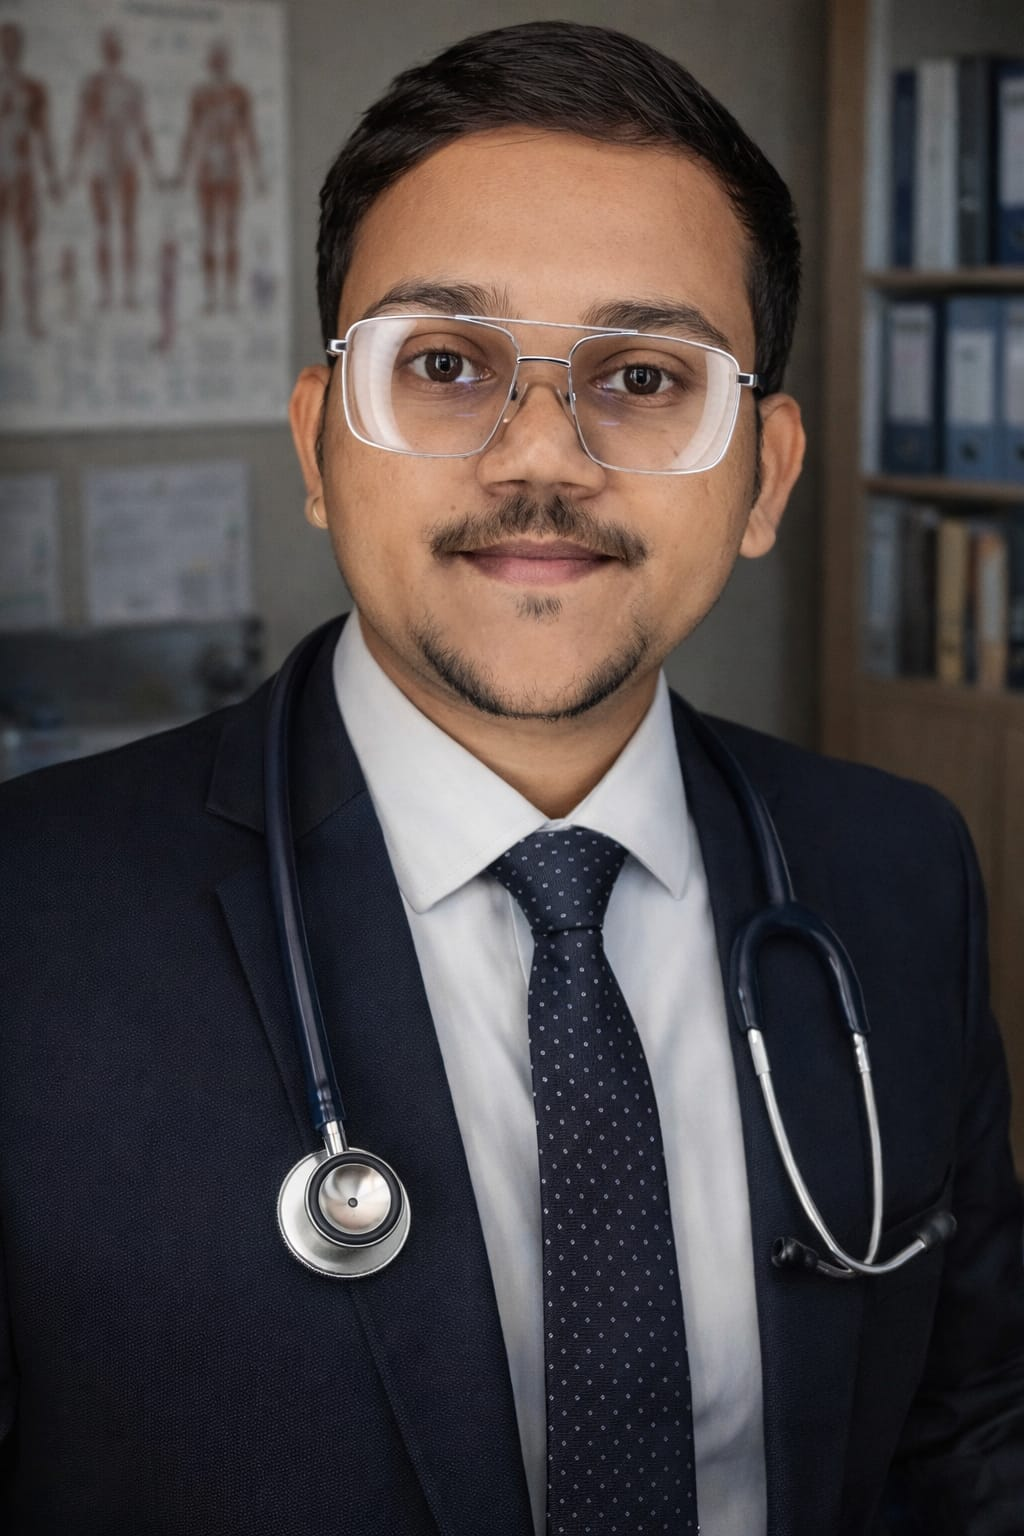
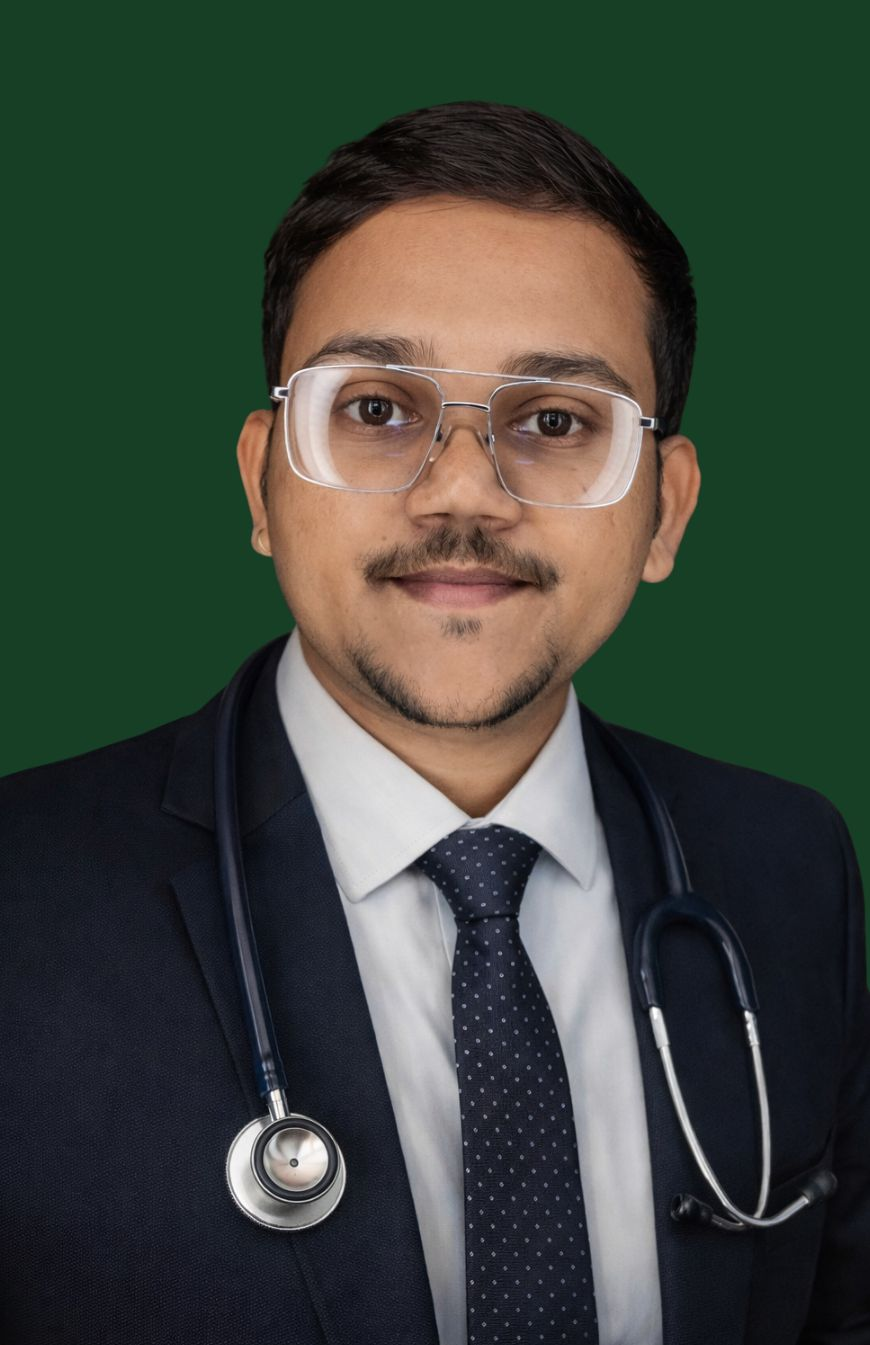
new whatsapp mesh changes

diff --git a/src/components/FloatingWhatsApp.jsx b/src/components/FloatingWhatsApp.jsx
@@ -1,0 +1,27 @@
+import './FloatingWhatsApp.css';
+
+const phoneNumber = '919307631817';
+const message = 'Hi, I want more information about the workshop.';
+const whatsappUrl = `https://wa.me/${phoneNumber}?text=${encodeURIComponent(message)}`;
+
+const FloatingWhatsApp = () => {
+  return (
+    <a
+      className="floating-whatsapp"
+      href={whatsappUrl}
+      target="_blank"
+      rel="noopener noreferrer"
+      aria-label="Chat on WhatsApp for more information"
+    >
+      <svg viewBox="0 0 32 32" aria-hidden="true" focusable="false">
+        <path
+          fill="currentColor"
+          d="M16.01 3.2c-7.04 0-12.77 5.72-12.77 12.76 0 2.25.6 4.45 1.73 6.38L3.14 29l6.82-1.79a12.7 12.7 0 0 0 6.05 1.54h.01c7.04 0 12.77-5.72 12.77-12.76S23.06 3.2 16.01 3.2Zm0 23.39h-.01a10.6 10.6 0 0 1-5.39-1.48l-.39-.23-4.05 1.06 1.08-3.95-.26-.41a10.56 10.56 0 0 1-1.62-5.62c0-5.86 4.77-10.62 10.64-10.62 2.84 0 5.51 1.11 7.52 3.12a10.56 10.56 0 0 1 3.11 7.52c0 5.86-4.77 10.61-10.63 10.61Zm5.83-7.95c-.32-.16-1.89-.93-2.18-1.04-.29-.11-.5-.16-.71.16-.21.32-.82 1.04-1.01 1.25-.19.21-.37.24-.69.08-.32-.16-1.35-.5-2.58-1.59-.95-.85-1.6-1.9-1.79-2.22-.19-.32-.02-.49.14-.65.15-.15.32-.37.48-.56.16-.19.21-.32.32-.53.11-.21.05-.4-.03-.56-.08-.16-.71-1.7-.98-2.33-.26-.62-.52-.54-.71-.55h-.61c-.21 0-.56.08-.85.4-.29.32-1.11 1.09-1.11 2.65s1.14 3.08 1.3 3.29c.16.21 2.24 3.42 5.43 4.79.76.33 1.35.52 1.81.67.76.24 1.46.21 2.01.13.61-.09 1.89-.77 2.16-1.51.27-.74.27-1.38.19-1.51-.08-.13-.29-.21-.61-.37Z"
+        />
+      </svg>
+      <span>More Info</span>
+    </a>
+  );
+};
+
+export default FloatingWhatsApp;

diff --git a/src/components/FloatingWhatsApp.css b/src/components/FloatingWhatsApp.css
@@ -1,0 +1,56 @@
+.floating-whatsapp {
+  align-items: center;
+  background: #25d366;
+  border-radius: 999px;
+  bottom: 88px;
+  box-shadow: 0 10px 24px rgba(37, 211, 102, 0.38);
+  color: #fff;
+  display: inline-flex;
+  gap: 0.45rem;
+  font-size: 0.95rem;
+  font-weight: 800;
+  justify-content: center;
+  min-height: 54px;
+  padding: 0.7rem 1rem 0.7rem 0.85rem;
+  position: fixed;
+  right: 18px;
+  z-index: 9999;
+}
+
+.floating-whatsapp:hover {
+  background: #1ebe5d;
+  box-shadow: 0 12px 30px rgba(37, 211, 102, 0.48);
+  transform: translateY(-2px);
+}
+
+.floating-whatsapp svg {
+  height: 30px;
+  width: 30px;
+}
+
+@media (max-width: 480px) {
+  .floating-whatsapp {
+    border-radius: 50%;
+    bottom: 82px;
+    min-height: 56px;
+    padding: 0;
+    right: 14px;
+    width: 56px;
+  }
+
+  .floating-whatsapp span {
+    border: 0;
+    clip: rect(0 0 0 0);
+    height: 1px;
+    margin: -1px;
+    overflow: hidden;
+    padding: 0;
+    position: absolute;
+    width: 1px;
+  }
+
+  .floating-whatsapp svg {
+    height: 32px;
+    width: 32px;
+  }
+}

diff --git a/src/components/WorkshopIntro.css b/src/components/WorkshopIntro.css
@@ -777,8 +777,10 @@
   }
 
   .workshop-main-headline {
-    font-size: 0.82rem;
-    margin-bottom: 0.7rem;
+    font-size: 1.12rem;
+    line-height: 1.35;
+    margin-bottom: 0.95rem;
+    padding-bottom: 0.55rem;
   }
 
   .workshop-box {
@@ -804,14 +806,16 @@
   }
 
   .workshop-schedule {
-    border-radius: 9px;
-    gap: 0.7rem;
+    border-radius: 14px;
+    gap: 1.25rem;
     grid-template-columns: 1fr;
-    padding: 0.75rem;
+    padding: 1.25rem 1rem;
   }
 
   .schedule-item {
     grid-template-columns: auto 1fr;
+    min-height: 58px;
+    row-gap: 0.3rem;
   }
 
   .schedule-item-batches {
@@ -819,18 +823,20 @@
   }
 
   .schedule-icon {
-    height: 22px;
-    margin-right: 0.45rem;
-    width: 22px;
+    height: 26px;
+    margin-right: 0.7rem;
+    width: 26px;
   }
 
   .schedule-label {
     color: #22361c;
-    font-size: 0.68rem;
+    font-size: 0.95rem;
+    line-height: 1.35;
   }
 
   .schedule-value {
-    font-size: 0.66rem;
+    font-size: 0.9rem;
+    line-height: 1.55;
   }
 
   .workshop-facing-card {

diff --git a/src/components/WorkshopIntro.jsx b/src/components/WorkshopIntro.jsx
@@ -24,9 +24,9 @@ const WorkshopIntro = () => {
       <div className="workshop-container">
         <div className="workshop-hero-section">
           <div className="workshop-text-content">
-            <h2 className="workshop-main-headline">
+            <h1 className="workshop-main-headline">
               Transformative workshop sessions - program By
-            </h2>
+            </h1>
 
             <div className="workshop-box">
               <img src={doctorPortrait} alt="Dr. Akash Dongale" className="workshop-doctor-portrait" />

diff --git a/src/App.jsx b/src/App.jsx
@@ -10,12 +10,14 @@ import FAQ from './components/FAQ';
 import MeetMentor from './components/MeetMentor';
 import FinalCTA from './components/FinalCTA';
 import WhatsAppModal from './components/WhatsAppModal';
+import FloatingWhatsApp from './components/FloatingWhatsApp';
 import './App.css';
 
 function App() {
   return (
     <div className="App">
       <WhatsAppModal />
+      <FloatingWhatsApp />
       <Header />
       <MainBanner />
       <WorkshopIntro />
